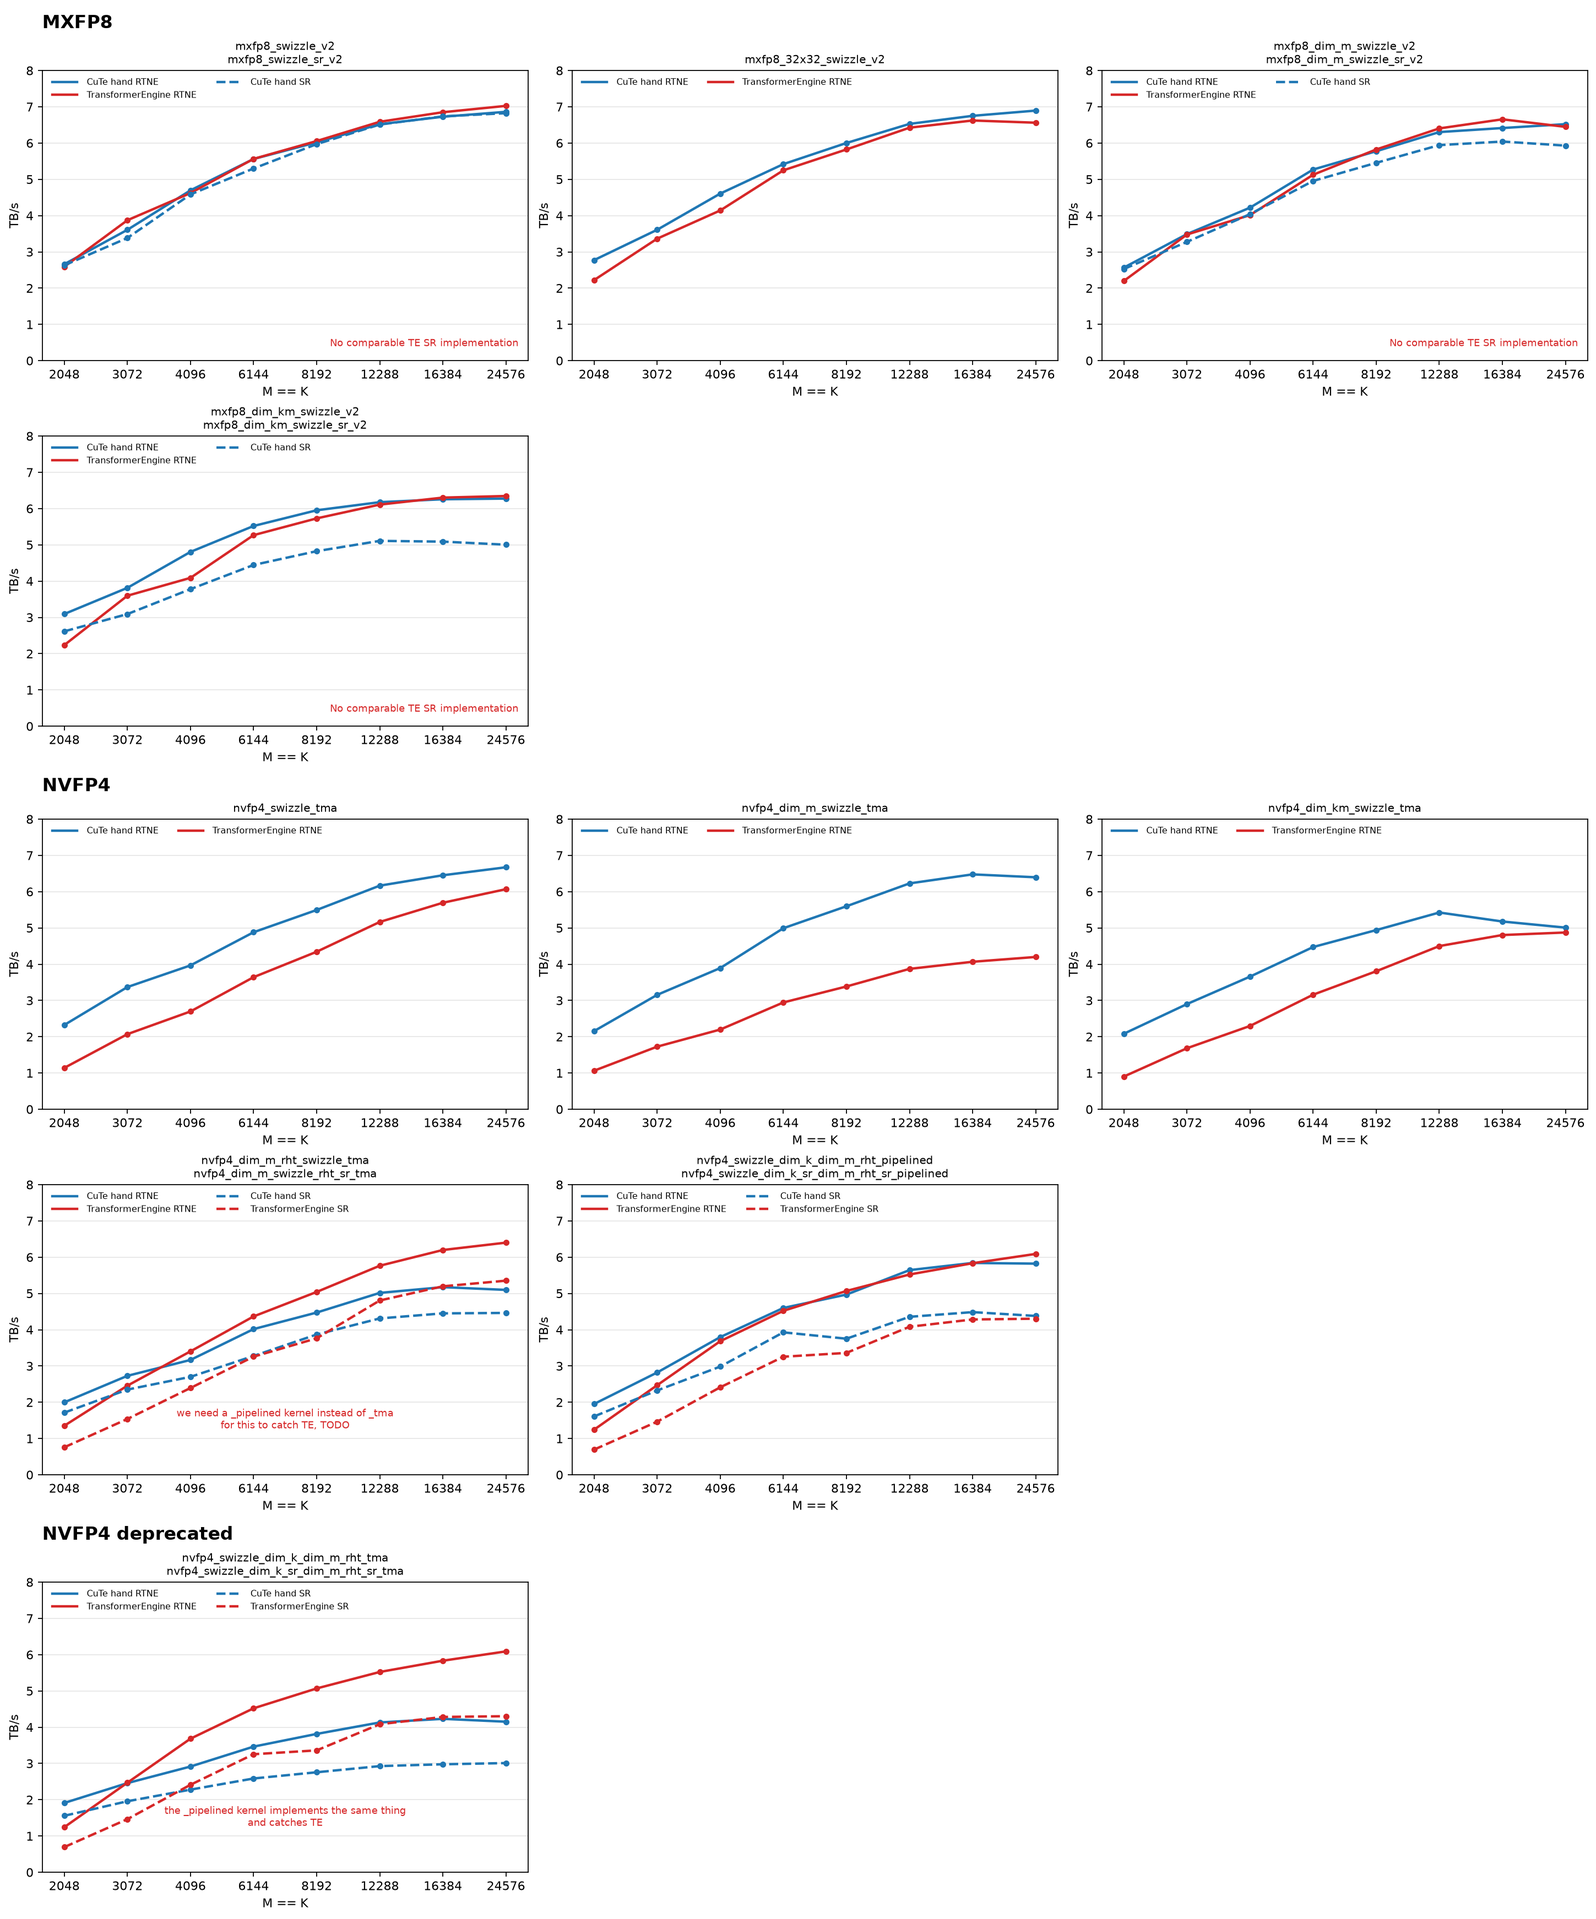
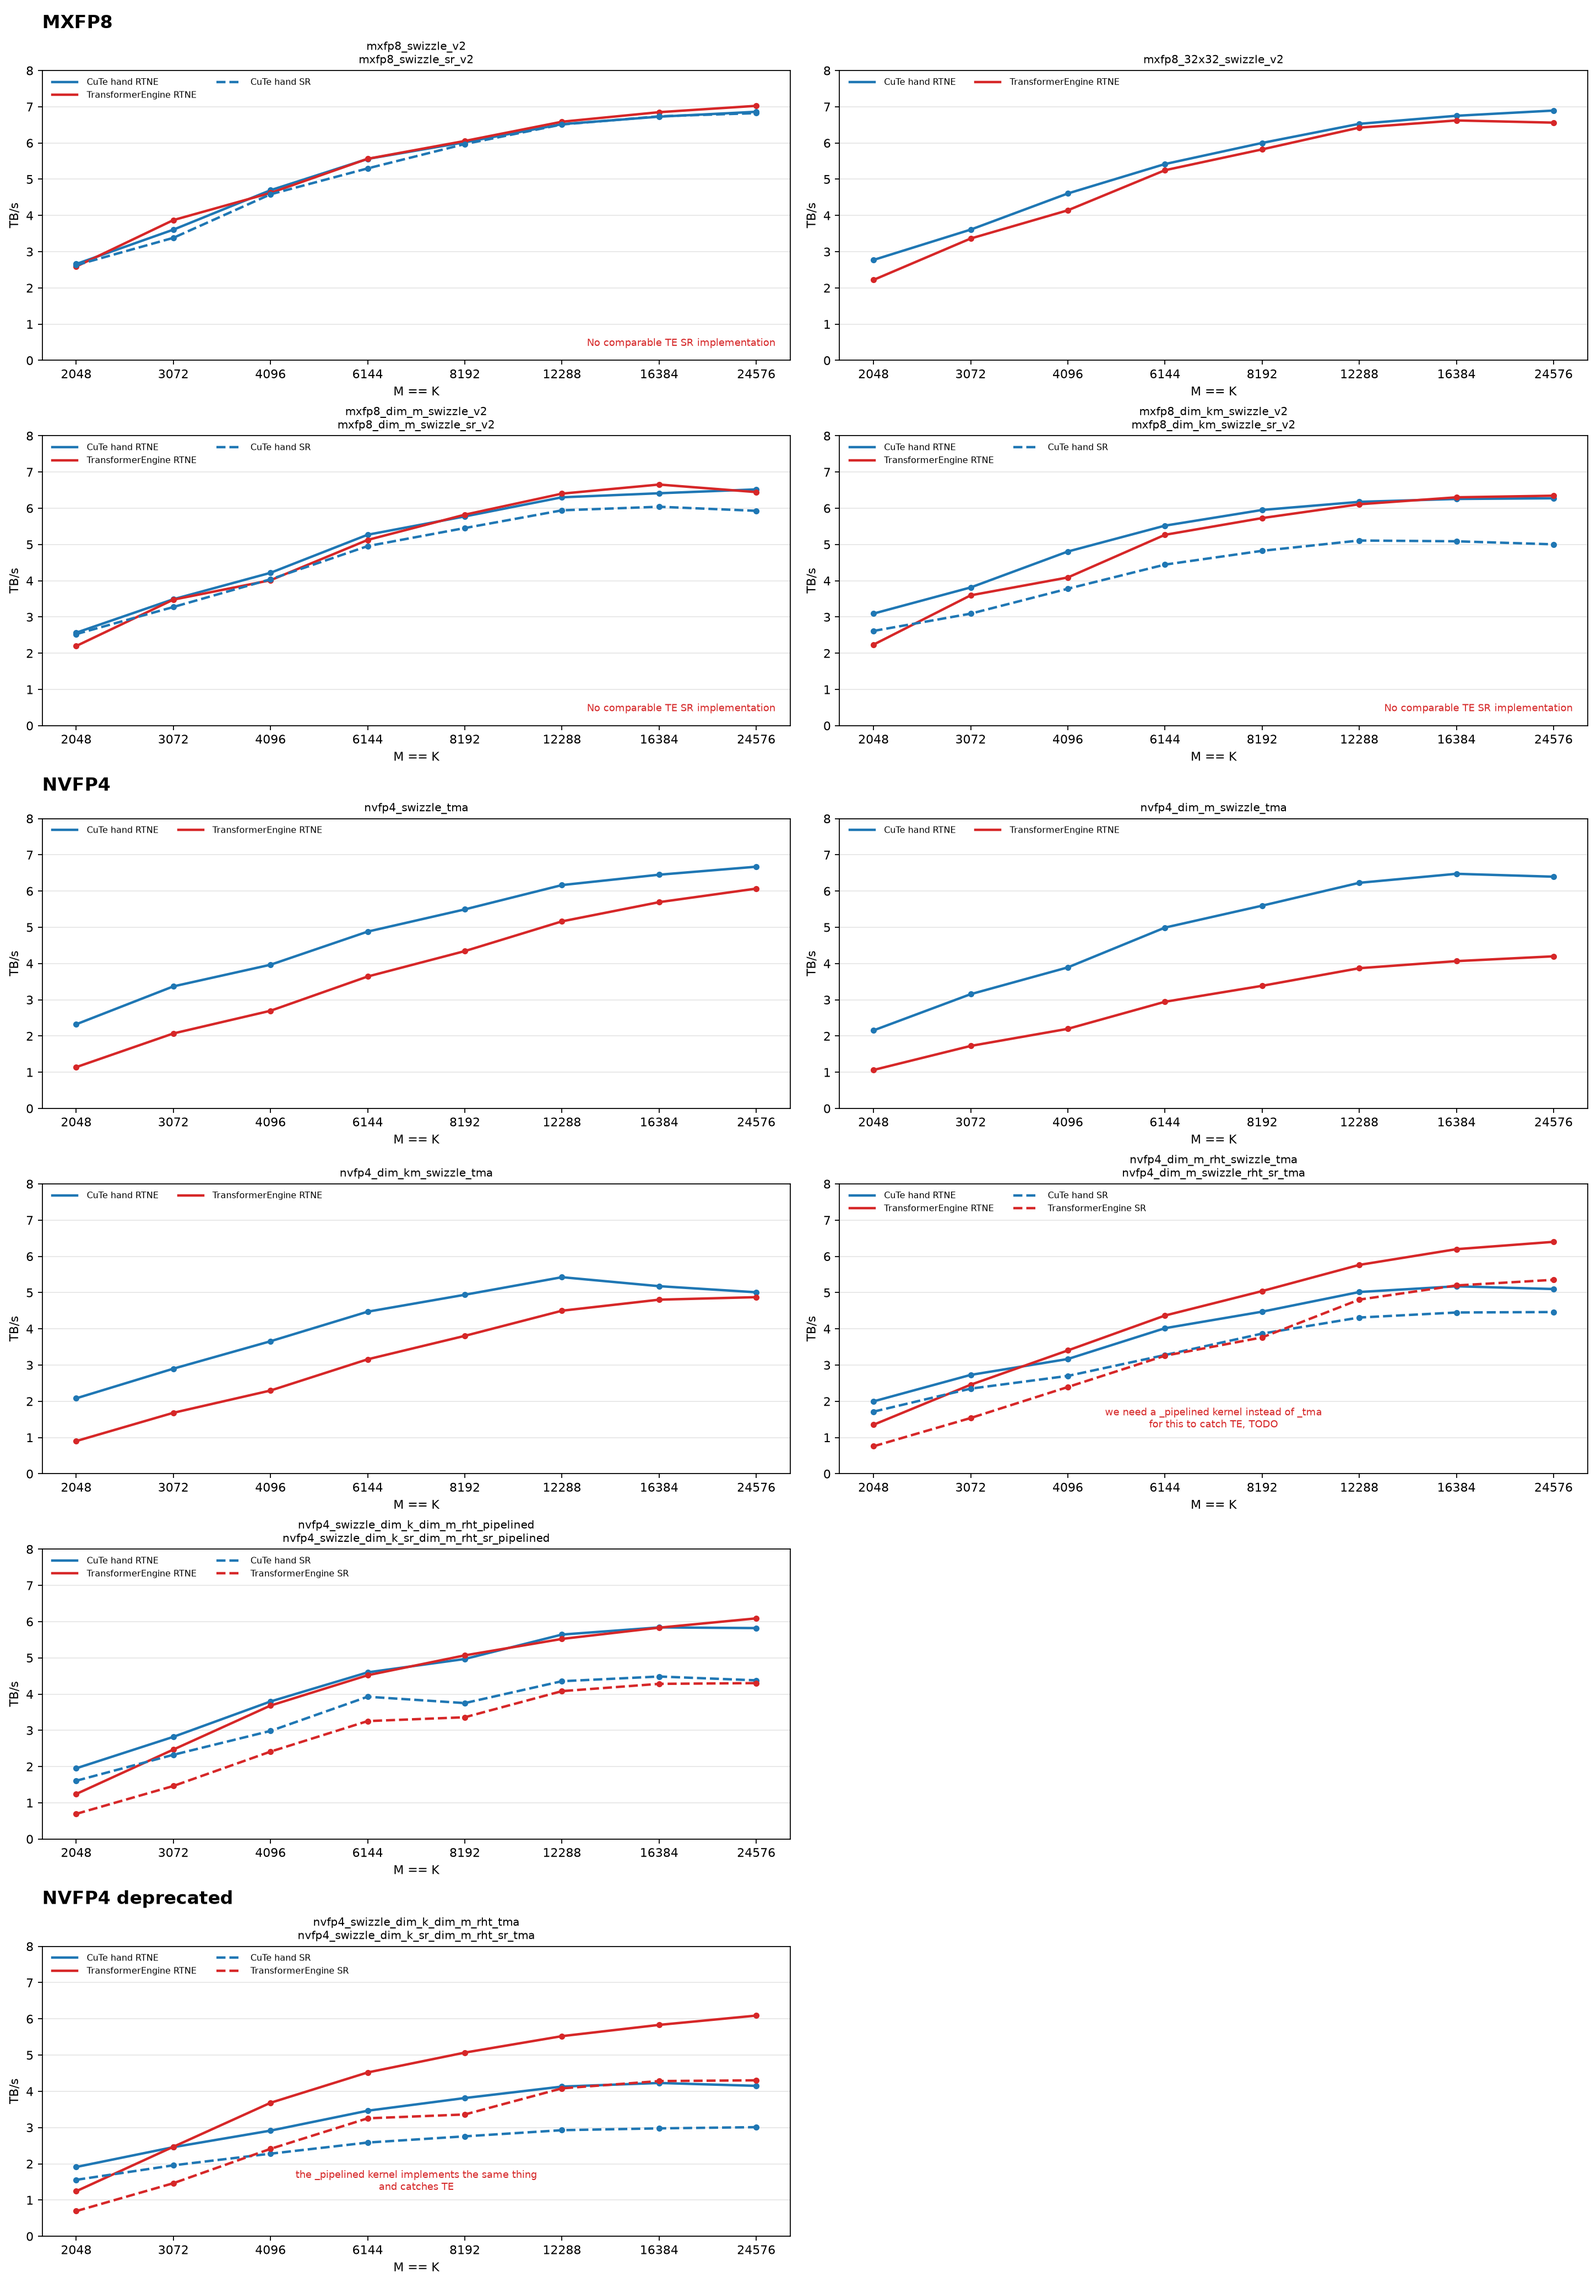
make charts prettier
Summary:

Test Plan:

diff --git a/quant_cast_bench/quant_cast_cute_hand/plot_transformer_engine_comparison.py b/quant_cast_bench/quant_cast_cute_hand/plot_transformer_engine_comparison.py
@@ -169,7 +169,7 @@ def _plot_chart(
 
 def plot(csv_path: Path, output_path: Path) -> None:
     charts = _read_results(csv_path)
-    column_count = 3
+    column_count = 2
     section_order = ("MXFP8", "NVFP4", "NVFP4 deprecated")
     sections = {
         name: [
